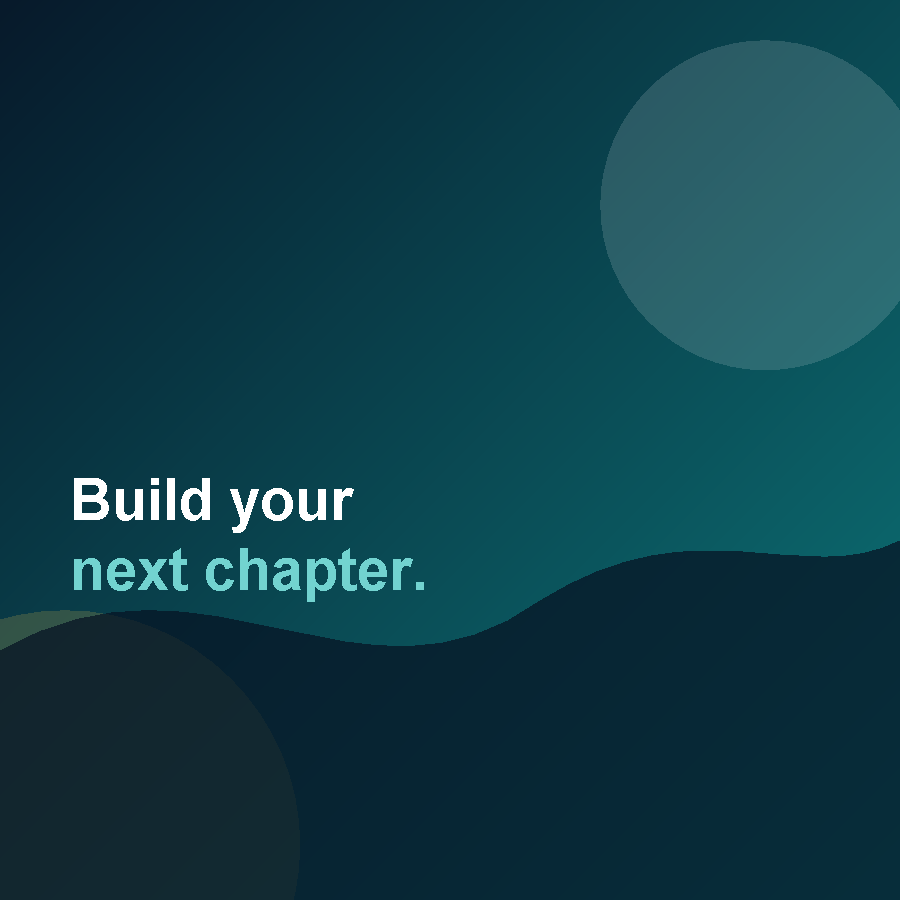
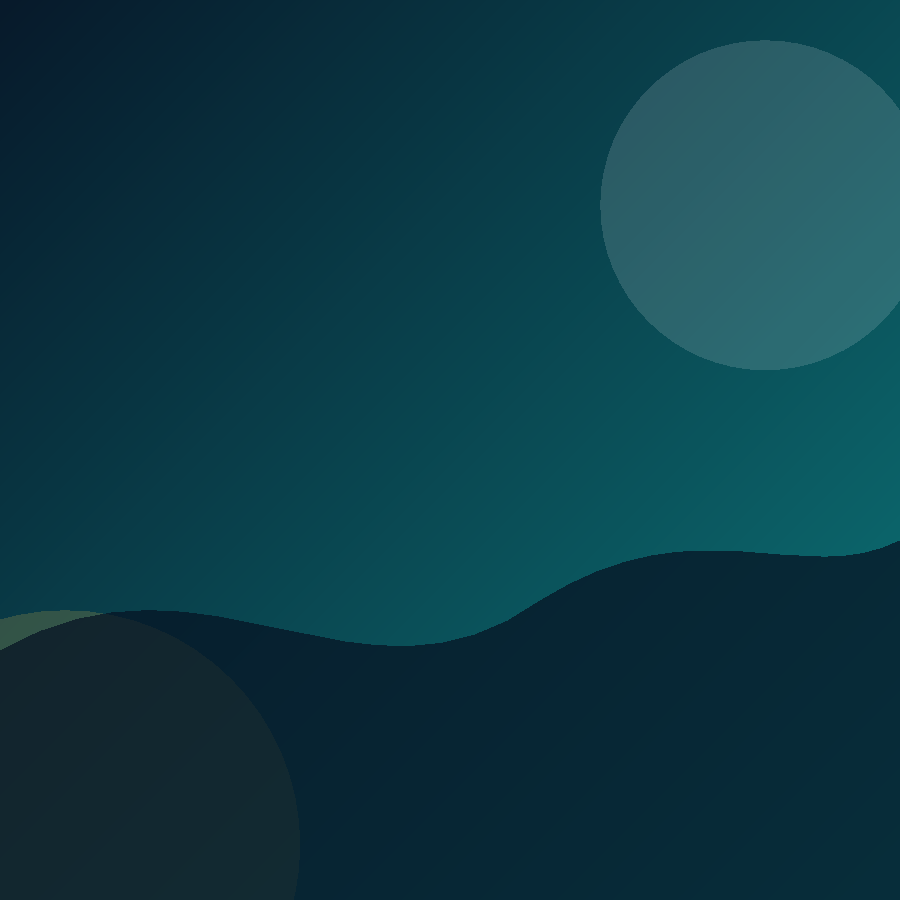
Refine login hero composition

Changed region(s): [[0.0622, 0.5289, 0.4667, 0.6844]]

diff --git a/src/main/resources/css/login.css b/src/main/resources/css/login.css
@@ -4,12 +4,12 @@
 .hero-panel .image-view { -fx-opacity: .98; }
 .hero-overlay { -fx-background-color: linear-gradient(to bottom, rgba(6,21,33,.18), rgba(6,21,33,.78)); -fx-background-radius: 0; }
 .brand-logo { -fx-text-fill: #72d3d0; -fx-font-size: 18px; -fx-font-weight: bold; }
-.hero-caption { -fx-text-fill: white; -fx-font-size: 42px; -fx-font-weight: bold; -fx-line-spacing: 1px; }
+.hero-caption { -fx-text-fill: white; -fx-font-size: 38px; -fx-font-weight: bold; -fx-line-spacing: 1px; }
 .hero-subtitle { -fx-text-fill: #d7eef0; -fx-font-size: 14px; -fx-line-spacing: 4px; }
 .hero-dots { -fx-padding: 10px 0 0 0; }
 .hero-dot { -fx-text-fill: rgba(255,255,255,.45); -fx-font-size: 12px; }
 .hero-dot.active { -fx-text-fill: #f7c948; }
-.login-panel { -fx-background-color: white; -fx-background-radius: 0; }
+.login-panel { -fx-background-color: #FFFFFF; -fx-background-radius: 0; -fx-border-color: #E6EDF2; -fx-border-width: 0 0 0 1px; }
 .register-card { -fx-background-color: white; -fx-background-radius: 18px; -fx-effect: dropshadow(gaussian, rgba(16,42,67,.18), 24, .12, 0, 8); }
 .register-shell { -fx-background-color: white; -fx-background-radius: 0; -fx-effect: dropshadow(gaussian, rgba(16,42,67,.18), 28, .12, 0, 10); }
 .register-visual { -fx-background-radius: 0; -fx-clip: true; }
@@ -20,7 +20,7 @@
 .login-heading { -fx-text-fill: #102a43; -fx-font-size: 32px; -fx-font-weight: bold; }
 .login-subtitle { -fx-text-fill: #71839a; -fx-font-size: 13px; -fx-padding: 0 0 12px 0; }
 .field-label { -fx-text-fill: #31556d; -fx-font-size: 11px; -fx-font-weight: bold; }
-.modern-field, .modern-combo { -fx-background-color: #f7fafc; -fx-border-color: #d4e0e9; -fx-border-radius: 9px; -fx-background-radius: 9px; -fx-padding: 0 14px; -fx-font-size: 13px; -fx-pref-height: 48px; }
+.modern-field, .modern-combo { -fx-background-color: #F8FAFB; -fx-border-color: #CBD8E1; -fx-border-radius: 9px; -fx-background-radius: 9px; -fx-padding: 0 14px; -fx-font-size: 13px; -fx-pref-height: 48px; }
 .modern-field:focused, .modern-combo:focused { -fx-background-color: white; -fx-border-color: #168b8b; -fx-effect: dropshadow(gaussian, rgba(22,139,139,.2), 8, 0, 0, 2); }
 .modern-combo .list-cell { -fx-text-fill: #243b53; -fx-font-size: 13px; }
 .primary-button { -fx-background-color: #168b8b; -fx-text-fill: white; -fx-font-size: 14px; -fx-font-weight: bold; -fx-background-radius: 9px; -fx-cursor: hand; }
